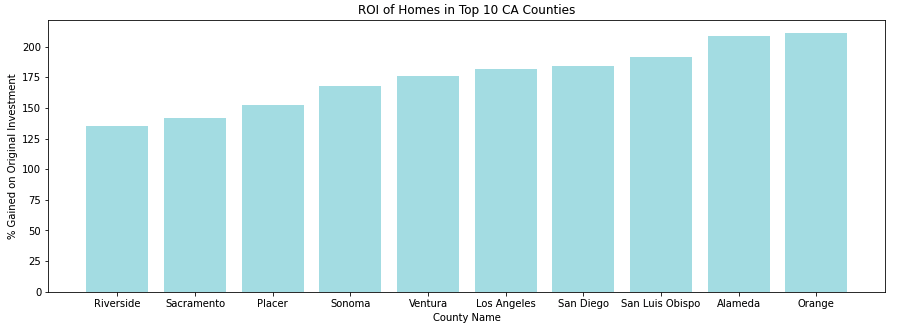
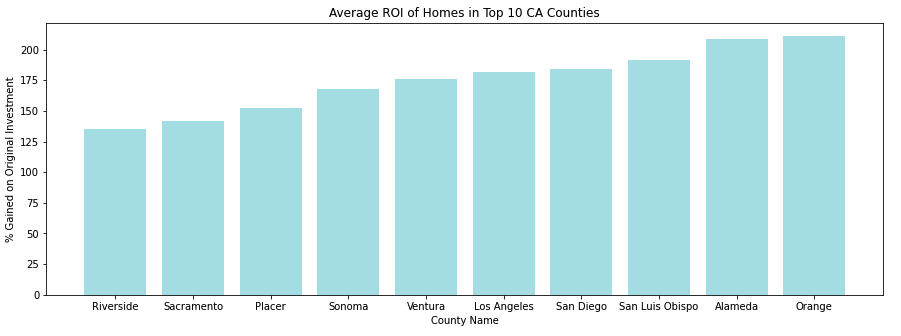
update title for ca top 10 county graph

diff --git a/README.md b/README.md
@@ -25,7 +25,7 @@ For prediction, I ran some time series models, and selected the SARIMAX model th
 
 ***
 ## Conclusion & Recommendation
-Out of those zipcodes, we recommend investing in properties in below 5 zip codes as they showed the highest ROI.
+Below are the top 5 zipcodes that showed the highest ROI, and the recommendation on short-term vs. long-term investment decision.
 
 ![map](./images/map.png) 
 
@@ -36,7 +36,7 @@ Out of those zipcodes, we recommend investing in properties in below 5 zip codes
            Total expected return in 3 years: 8.74%
            Total expected return in 5 years: 14.42%
            Total expected return in 10 years: 27.9 %
-![monterey](./images/monterey.png)                                  
+![monterey](./images/monterey_park.png)                                  
                                 
 **Zip code 92860 (Norco):** Buy and hold for at least 3 years.
 
